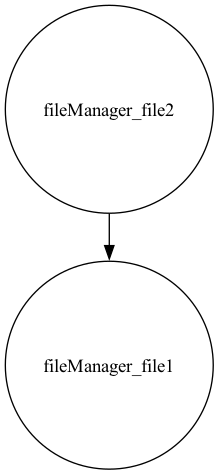
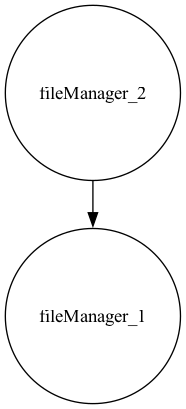
Implement folder management in FileExplorer; add solveit method and enhance DOT file generation

diff --git a/driver.cpp b/driver.cpp
@@ -10,44 +10,30 @@
 #include "FileExplorer.cpp" // Include FileExplorer
 using namespace std;
 
-// bool openFile(std::wstring& fullPath, std::wstring& fileName) {
-//     OPENFILENAMEW ofn;               // Structure to configure the dialog box
-//     wchar_t fileBuffer[MAX_PATH] = L""; // Buffer to store the selected file path
 
-//     // Initialize the OPENFILENAME structure
-//     ZeroMemory(&ofn, sizeof(ofn));
+
+// std::string openFile() {
+//     char fileBuffer[MAX_PATH] = ""; // Buffer for the file path
+
+//     OPENFILENAMEA ofn = {};          // Structure to configure the dialog
 //     ofn.lStructSize = sizeof(ofn);
-//     ofn.hwndOwnser = NULL;               // No parent window
-//     ofn.lpstrFile = fileBuffer;         // Buffer to store the full file path
-//     ofn.nMaxFile = MAX_PATH;            // Buffer size
-//     ofn.lpstrFilter = L"All Files\0*.\0Text Files\0.TXT\0"; // File filters
-//     ofn.nFilterIndex = 1;               // Default filter index
-//     ofn.lpstrFileTitle = NULL;          // Will fetch file name separately
-//     ofn.nMaxFileTitle = 0;
-//     ofn.lpstrInitialDir = NULL;         // Default directory
+//     ofn.hwndOwner = NULL;
+//     ofn.lpstrFile = fileBuffer;
+//     ofn.nMaxFile = MAX_PATH;
+//     ofn.lpstrFilter = "All Files\0*.\0Text Files\0.TXT\0";
+//     ofn.nFilterIndex = 1;
 //     ofn.Flags = OFN_PATHMUSTEXIST | OFN_FILEMUSTEXIST;
 
-//     // Show the Open File Dialog
-//     if (GetOpenFileNameW(&ofn)) {
-//         // Save the full path
-//         fullPath = fileBuffer;
-
-//         // Extract the file name from the full path
-//         std::wstring tempPath(fileBuffer);
-//         size_t pos = tempPath.find_last_of(L"\\/");
-//         if (pos != std::wstring::npos) {
-//             fileName = tempPath.substr(pos + 1); // File name only
-//         }
-//         else {
-//             fileName = tempPath; // If no directory separator found
-//         }
-
-//         return true; // File selection succeeded
+//     // Show the file dialog
+//     if (GetOpenFileNameA(&ofn)) {
+//         std::string fullPath(fileBuffer);               // Full file path
+//         size_t pos = fullPath.find_last_of("\\/");      // Find last slash
+//         return (pos != std::string::npos) ? fullPath.substr(pos + 1) : fullPath; // Extract file name
 //     }
-//     else {
-//         return false;
-//     }
+//     return ""; // Return an empty string if the dialog was canceled
 // }
+
+
 
 void FolderDashboard(FileManager* fm,FileExplorer& fileExplorer);
 
@@ -56,7 +42,11 @@ void exportTreeToDot(SplayTree<std::string>::Node* root, const string& filename,
     ofstream out(filename);
     out << "digraph BST {\n";
     out << "    node [shape=circle];\n"; // Optional: Set node style
-    generateDotFile(root, out, prefix);
+    if (root != nullptr) {
+        generateDotFile(root, out, prefix);
+    } else {
+        out << "// Tree is empty\n";
+    }
     out << "}\n";
     out.close();
     cout << "DOT file exported to " << filename << endl;
@@ -149,7 +139,6 @@ void FolderDashboard(FileManager* fm,FileExplorer& fileExplorer) {
     system("dot -Tpng fileManager.dot -o tree.png");
     while (true) {
 
-        system("clear");
         cout << "\t Dashboard  \t" << endl;
         cout << "\t 1 - Insert a file \t" << endl;
         cout << "\t 2 - Delete a file \t" << endl;
@@ -236,8 +225,8 @@ int main() {
     FileManager* fm2 = fileExplorer.getFolderfiles("Folder2");
 
     if (fm1) {
-        fm1->addFile("file1");
-        fm1->addFile("file2");
+        fm1->addFile("1");
+        fm1->addFile("2");
     }
 
     if (fm2) {

diff --git a/splay.h b/splay.h
@@ -1,6 +1,7 @@
 #pragma once
 #include <iostream>
 #include <string>
+#include "MainFileManager.h"
 
 template <typename T>
 class SplayTree
@@ -38,6 +39,8 @@ public:
     void inorder(std::ostream& out) const;              // Full traversal
     void inorder(std::ostream& out, int maxDepth) const; // Depth-limited traversal
     void access(const T& key);
+    void insertBst(Node* file);
+    void inOrderBst( FileExplorer::FolderNode* newfolder,  FileExplorer::FolderNode* folder);
 
 private:
     void inorderAux(std::ostream& out, Node* subtreeRoot, int currentDepth, int maxDepth) const;
@@ -206,11 +209,16 @@ void SplayTree<T>::remove(const T& key)
     if (!root)
         return;
 
-    root = splayHelper(root, key);
-    system("pause");
-    root->time = time(NULL);
+
     if (!search(key))
         return;
+
+    if(!root->left && !root->right)
+    {
+        delete root;
+        root = nullptr;
+        return;
+    }
 
     Node* temp;
 
@@ -261,4 +269,39 @@ template <typename T>
 typename SplayTree<T>::Node* SplayTree<T>::getRoot()
 {
     return root;
+}
+
+template <typename T>
+void SplayTree<T>::insertBst(Node* file) {
+
+    if (!root) {
+        root = file;
+        return;
+    }
+
+    Node* current = root;
+    Node* parent = nullptr;
+
+    while (current) {
+        parent = current;
+        if (file->time < current->time) {
+            current = current->left;
+        } else {
+            current = current->right;
+        }
+    }
+
+    if (file->time < parent->time) {
+        parent->left = file;
+    } else {
+        parent->right = file;
+    }
+
+}
+template <typename T>
+void SplayTree<T>::inOrderBst( FileExplorer::FolderNode* newfolder, FileExplorer::FolderNode* folder){
+    if(root == nullptr) return;
+    inOrderBst(root->left, newfolder, folder);
+    newfolder->fileManager.files.insertBst(folder->fileManager.files.root);
+    inOrderBst(root->right, newfolder, folder);
 }

diff --git a/FileExplorer.cpp b/FileExplorer.cpp
@@ -72,6 +72,10 @@ FileManager* FileExplorer::getFolderfiles(const std::string& folderName) {
 
 void generateDotFile(SplayTree<std::string>::Node* root, std::ofstream& out, const std::string& prefix) {
     if (!root) return;
+    if(!root->left && !root->right) {
+        out << "    \"" << prefix << root->key << "\";\n";
+        return;
+    }
 
     if (root->left) {
         out << "    \"" << prefix << root->key << "\" -> \"" << prefix << root->left->key << "\";\n";
@@ -101,4 +105,16 @@ void FileExplorer::exportToDot(const std::string& filename) const {
     out << "}\n";
     out.close();
     std::cout << "DOT file exported to " << filename << std::endl;
+}
+void FileExplorer:: solveit(FolderNode* folder){
+    FolderNode* current = head;
+    while (current != nullptr) {
+        current = current->next;
+    }
+    FolderNode* newfolder = new FolderNode("new folder");
+    current->next = newfolder;
+    current = current->next;
+    current->fileManager.files.inOrderBst(newfolder, folder);
+    newfolder->fileManager.displayAll(std::cout);
+    delete newfolder;˝
 }

diff --git a/MainFileManager.h b/MainFileManager.h
@@ -20,11 +20,11 @@ public:
 class FileExplorer {
 public:
     class FolderNode {
-    public:
-        std::string folderName;
-        FolderNode* next;
-        FileManager fileManager;
-        FolderNode(const std::string& name) : folderName(name), next(nullptr) {}
+        public:
+            std::string folderName;
+            FolderNode* next;
+            FileManager fileManager;
+            FolderNode(const std::string& name) : folderName(name), next(nullptr) {}
     };
 
     FolderNode* head;
@@ -37,4 +37,6 @@ public:
     FileManager* getFolderfiles(const std::string& folderName);
     void exportToDot(const std::string& filename) const;
     void moveToHead(FolderNode* folder);
+    void solveit(FolderNode* folder);
+    
 };
